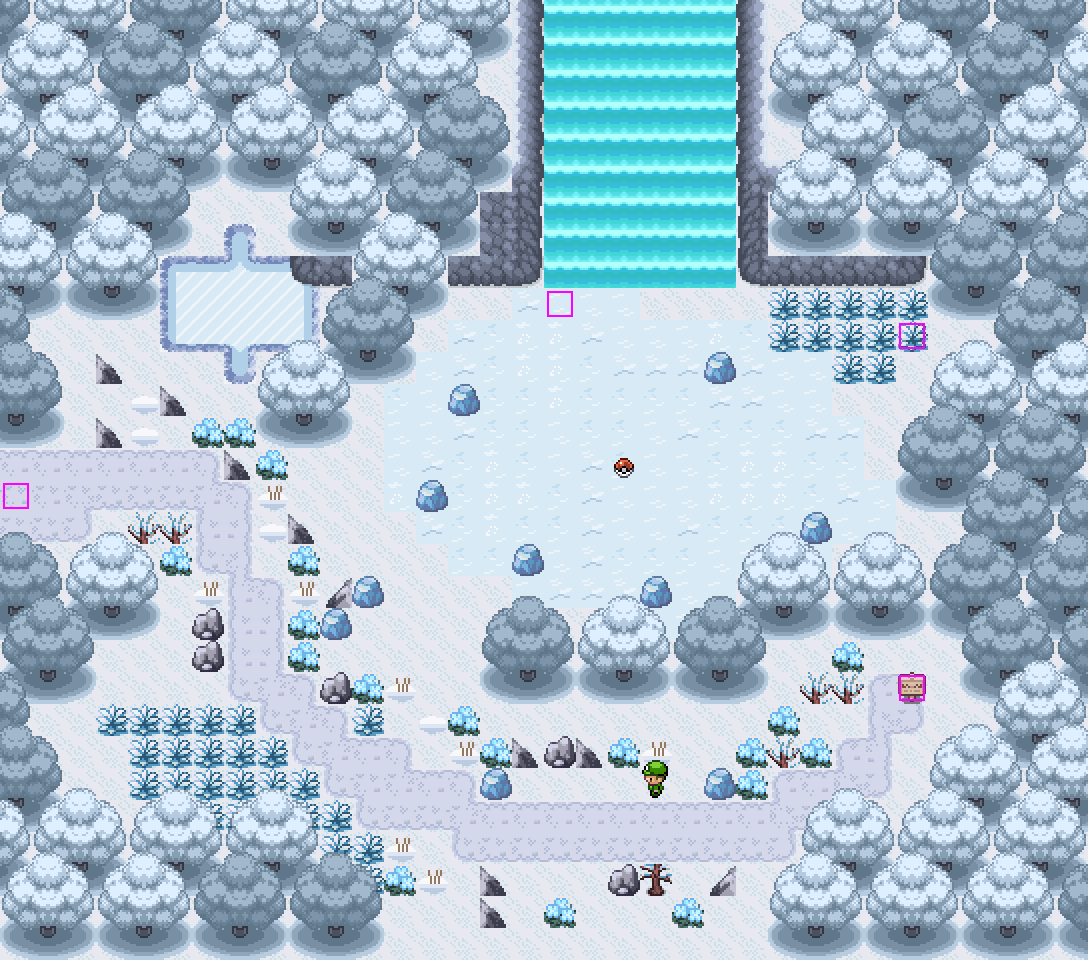
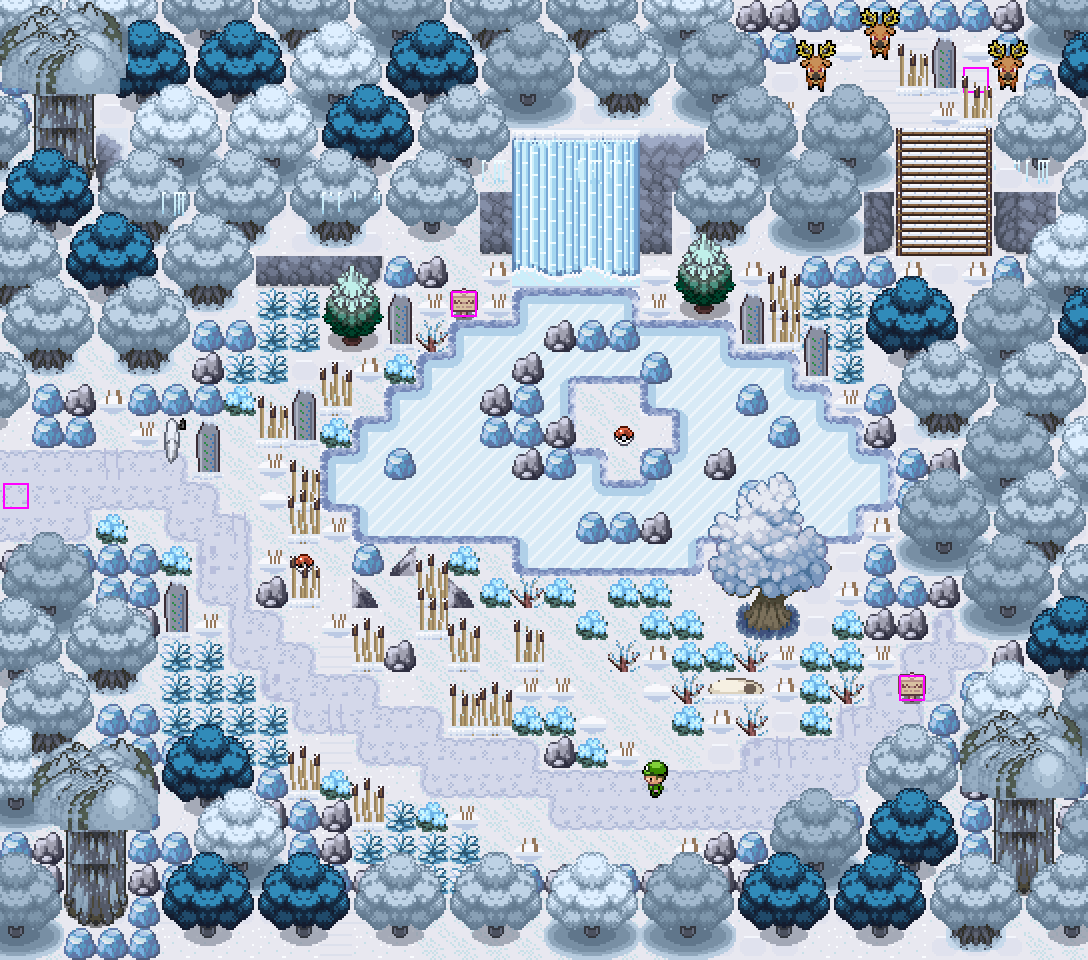
Map builder 16 job 2: The Rimewood (562) and the Glade (563) crafted
562 keeps its plan, events, connections, the D7 Frost Loom corridor and the glade / Wolfsrime warps, and gets
the old Rimewood Path's dense snowy look: SNOWWOOD lattice with blue crowns, thin forest bands opened, fringe
pines and frosted oaks, the trapper's yard, the aurora clearing's standing stones, rime silk, tracks. The Glade
is rewritten: a snow ridge with the Silk-fall frozen down its face, the herd's ground up a stair, the pond as a
proven slide puzzle (Never-Melt Ice islet in 4 slides), frosted ferns for the night Emolga table; Sigurd's
lines unchanged. Kit: CK.thin_bands, CK.infill takes tile-id bushes.

Claude-Session: https://claude.ai/code/session_01SBLHz7mq5tij8ELd9mbfG8

diff --git a/mapgen/layouts/rimewood.py b/mapgen/layouts/rimewood.py
@@ -589,13 +589,18 @@ def rimewood(prev=None):
             m.cls[y, x] = 'T'
     path = [(29, 56), (29, 50), (22, 46), (14, 44), (10, 38), (12, 30), (20, 27), (30, 26), (38, 22), (30, 22), (25, 20),
             (24.5, 13), (24, 10), (18, 8), (15, 4), (15, -1)]
-    m.lane(path, '.', 6.5, seed=3, only='T', wobble=1.6)
-    for cx, cy, rx, ry in ((26, 3, 5, 2.6), (34, 9, 5, 3.6), (10, 41, 5, 4), (40, 44, 5, 4), (20, 32, 8, 4.5), (44, 24, 4, 3),
-                           (35, 36, 6, 4), (12, 26, 4, 3), (8, 48, 5, 3.5)):
+    m.lane(path, '.', 4.6, seed=3, only='T', wobble=1.4)                  # map builder 16: a narrower verge, the wood closes in
+    for cx, cy, rx, ry in ((26, 3, 4, 2.2), (34, 9, 4.5, 3.2), (10, 41, 4.2, 3.4), (40, 44, 4, 3.2), (20, 32, 8, 4.5), (44, 24, 4, 3),
+                           (35, 36, 4.6, 3.2), (12, 26, 3.4, 2.6), (8, 48, 4, 3)):
         m.blob(cx, cy, rx, ry, '.', seed=cx + cy, only='T', rough=0.6)
     m.lane([(29, 56), (29, 50), (22, 46), (14, 44), (10, 38), (12, 30), (20, 27), (30, 26), (38, 22), (30, 22), (25, 21), (24.5, 14),
             (24, 11), (18, 8), (15, 4), (15, -1)], 'd', 2.6, seed=4, only='.T', wobble=0.4)
     m.lane([(24, 11), (30, 10), (35, 9)], 'd', 2.2, seed=6, only='.T', wobble=0.3)        # to the Frost Loom shelf
+    m.lane([(33, 36), (37, 40), (40, 43)], '.', 2.2, seed=8, only='T', wobble=0.3)         # map builder 16: to the child's big tree
+    for x in range(12, 16):                                                                 # the connection spans stay open
+        for y in range(0, 3): m.cls[y, x] = 'd' if m.cls[y, x] == 'd' else '.'
+    for x in range(26, 30):
+        for y in range(53, 56): m.cls[y, x] = 'd' if m.cls[y, x] == 'd' else '.'
     m.lane([(38, 22), (44, 24), (46, 24)], 'd', 2.0, seed=5, only='.T')       # to the frosted sapling (Cut) and the glade
     # the ravine (rows 15-18) under the fallen giant: frozen water, the trunk bridge at x 24-25
     for x in range(1, 47):
@@ -669,8 +674,25 @@ def rimewood(prev=None):
         if m.free(x, y, STAMPS[nm]['w'], STAMPS[nm]['h'], on='T.t'): m.stamp(nm, x, y)
     for cx, cy, n in ((20, 40, 2), (8, 12, 1), (40, 38, 1), (30, 46, 2), (16, 22, 2), (42, 14, 1)):
         m.trees(cx, cy, n, ['pine2', 'kf_tree'], r=3, on='.t', seed=cx + cy)
+    # ---- map builder 16: the crafted snow wood (the old Rimewood Path's look the user liked: a dense snowy lattice with
+    # blue crowns, pines and giants in front, stones, drifts and woodpiles at the foot, frozen silk in the branches)
+    import types, craftkit as CK
+    R_ = types.SimpleNamespace(m=m, seed=562, road_mask=np.isin(m.cls, ['d']), events=E, rng=random.Random(562))
+    for n, x, y in (('fw_wood', 4, 43), ('fw_wood', 6, 44), ('pf_sledge', 9, 45), ('fw_rack', 2, 44), ('fw_brazier', 11, 40),
+                    ('fw_log_m', 13, 37), ('nt_stump', 15, 41)):                  # the trapper's yard round the lodge
+        if m.free(x, y, STAMPS[n]['w'], STAMPS[n]['h'], on='.t'): m.stamp(n, x, y)
+    for n, x, y in (('nt_stonering', 24, 2), ('fw_stone', 21, 3), ('fw_stone', 30, 2), ('fw_stone', 28, 5), ('fw_stone', 20, 6)):   # the aurora clearing
+        if m.free(x, y, STAMPS[n]['w'], STAMPS[n]['h'], on='.t'): m.stamp(n, x, y)
+    for n, x, y in (('fw_skull', 38, 41), ('fw_wood', 42, 46), ('nt_stump_big', 43, 40), ('fw_peg', 36, 45)):      # the child's "big tree"
+        if m.free(x, y, STAMPS[n]['w'], STAMPS[n]['h'], on='.t'): m.stamp(n, x, y)
+    CK.thin_bands(R_)
+    CK.woods(R_, CK.SNOWWOOD, scale=9.0, accents={'snowblue': 0.05})
+    CK.fringe(R_, ['pine2', 'kf_tree', 'pine2', 'kf_tree'], 90, seed=1, near_forest=3)
+    CK.undergrowth(R_, 70, kinds=('fw_stone', 'fw_drift2', 'fw_drift0'), seed=3)
+    CK.props(R_, ['fw_stone', 'fw_wood', 'fw_log_m', 'fw_drift2', 'nt_stump'], 24, box=(0, 0, m.W, m.H), clump=3, seed=7)
     m.events = E
     m.paint()
+    CK.infill(R_, CK.SNOWWOOD, bushes=(10371, 10371, 10551), shrubs=())
     for y in range(LOG[0], LOG[1] + 1):                                      # the fallen giant: an ice-glazed log bridge
         nm = 'fw_log_n' if y == LOG[0] else 'fw_log_s' if y == LOG[1] else 'fw_log_m'
         L_ = STAMPS[nm]['layers'][1][0]
@@ -682,7 +704,9 @@ def rimewood(prev=None):
     m.L[2, 0:4, 22:30][m.L[2, 0:4, 22:30] == 0] = 0
     rime_silk(m, ((6, 8), (12, 20), (30, 30), (40, 20), (20, 44), (34, 50)))
     m.scatter(8, seed=6)
-    dress_ice(m, 0.25, seed=562); reed_beds(m, 45, seed=562); drifts(m, 0.08, seed=562)
+    dress_ice(m, 0.25, seed=562); reed_beds(m, 60, seed=562); drifts(m, 0.14, seed=562)
+    CK.snow_ground_var(R_, thr=0.45); road_tracks(m, 0.12, seed=562); icy_faces(m)
+    rime_silk(m, ((14, 6), (36, 30), (8, 22), (26, 46), (44, 36), (20, 12)))
     m.seal_against([{'dir': 'N', 'offset': 12, 'to': 561, 'to_offset': 10}, {'dir': 'S', 'offset': 26, 'to': 578, 'to_offset': 36}], spans=[('S', 26, 4)],
                    keep=[tuple(e['at']) for e in m.events if e.get('type') == 'warp'])   # map builder 9
     m.events.append({'type': 'warp', 'name': 'To the Wolfsrime', 'at': [47, 26], 'to': {'map': 579, 'x': 37, 'y': 1, 'dir': 'down'},
@@ -765,51 +789,87 @@ def ice_floor(m, cls):
 
 # =================================================================================================== 563 Rimewood Glade
 def glade(prev=None):
+    """Rimewood Glade (563; map builder 16, crafted): behind the frosted sapling on the Rimewood's east edge.  A snow
+    ridge (h1) closes the north, and the Silk-fall comes down its face frozen as it fell; at its foot the Silk-fall pond
+    is a slide puzzle (Frozen Pond, terrain tag 12: you slide until an ice block stops you) whose islet keeps the
+    Never-Melt Ice (slide_puzzle proves it takes at least four slides and that you can slide back).  The herd sleeps on
+    the ridge (a stair at the east end), the Snowveil Shrine stands in the south-east, frosted ferns fill the hollows
+    (the night table: Emolga glides here after dark, Ranger Sigurd says so)."""
+    import types, craftkit as CK
     W, H = 34, 30
     m = snowmap(W, H, 563)
     m.cls[:, :] = 'T'
-    m.blob(16.5, 16, 13.5, 12.0, '.', seed=2, only='T', rough=0.9)
-    m.lane([(0, 15), (6, 15), (8, 21), (14, 25), (24, 25), (28, 21)], 'd', 2.0, seed=3, only='.T')
+    rng = random.Random(563)
+    for x in range(W):                                                       # the ridge
+        lip = 4 + (1 if vnoise(x, 0, 5631, 4.0) > 0.66 and not 12 <= x <= 22 else 0)
+        m.ht[:lip + 1, x] = 1
+    m.blob(16.5, 16.5, 13.0, 9.5, '.', seed=2, only='T', rough=0.8)        # the glade
+    m.blob(27.5, 2.2, 4.5, 1.8, '.', seed=21, only='T', rough=0.4)          # the herd's ground on the ridge
+    m.lane([(0, 15), (5, 15), (8, 20), (13, 23), (20, 24.5), (26, 23), (29, 20)], 'd', 2.0, seed=3, only='.T', wobble=0.3)
     m.rect(0, 14, 3, 3, 'd', only='.T')
-    m.blob(19, 14, 8.0, 5.0, 'i', seed=4, only='.', rough=0.55)                # the frozen pond (slide puzzle)
-    for y in range(0, 6):                                                   # the Silk-fall pours from the ridge at x 14-19
-        for x in list(range(9, 17)) + list(range(23, 29)): m.ht[y, x] = 1
-    for y in range(0, 9):
-        for x in range(17, 23): m.cls[y, x] = 'f'
-    m.rect(2, 22, 10, 6, 't', only='.')
-    m.blob(27, 10, 3.5, 2.2, 't', seed=8, only='.', rough=0.6); m.blob(7, 9, 2.5, 2.0, 'p', seed=9, only='.T', rough=0.3)   # break the symmetry
+    for cx, cy, rx, ry, sd in ((18.5, 12.6, 6.6, 3.4, 31), (12.6, 14.6, 3.0, 2.2, 33), (24.2, 14.6, 3.0, 2.0, 35), (18.5, 16.0, 3.4, 1.6, 37)):
+        m.blob(cx, cy, rx, ry, 'p', seed=sd, rough=0.35, only='.T')         # the Silk-fall pond (a kidney, not a box)
+    smooth(m, 'p', into='.', passes=2)
+    for y in range(8, 11):                                                   # the fall's foot runs straight into the pond
+        for x in range(16, 20): m.cls[y, x] = 'p'
+    ISLET = [(18, 12), (19, 12), (18, 13), (19, 13), (20, 13), (19, 14)]
+    for x, y in ISLET: m.cls[y, x] = '.'; m.taken[y, x] = True
+    for i, (cx, cy, sz) in enumerate(((6, 22, 3.2), (27, 10, 2.4), (7, 9.5, 2.4), (12, 26.5, 2.0), (29, 26, 1.8))):
+        m.blob(cx, cy, sz, sz * 0.7, 't', seed=50 + i, only='.', rough=0.7)    # frosted ferns (the encounters, the night table)
+    for x, y in [(x, y) for y in range(H) for x in range(W) if m.cls[y, x] in '.t' and m.ht[y, x] == 0 and y <= 7]:
+        m.cls[y, x] = 'T'                                                    # nothing hangs on the ridge's face
+    m.stairs(28, 4, w=3, kit_rows=4, c='d')
+    m.plan_cliffs()
+    for x in range(28, 31):
+        for y in (2, 3, 8, 9):
+            if m.cls[y, x] in 'T.t': m.cls[y, x] = '.'
     E = [trainer((20, 24), 'POKEMONRANGER_M', 'Sigurd', "Isenmar ranger. Nobody finds this glade by accident.",
                  "...So you cut your way in. Fair. Stay till dark if you've the nerve. Something glides between the boles up here, and it crackles.", 'left'),
-         item((19, 14), 'NEVERMELTICE'), item((30, 3), 'REVIVE', True),
+         item((30, 2), 'REVIVE', True),
          sign((28, 21), 'Snowveil Shrine', "THE SNOWVEIL SHRINE\nA pot of honey and a smoked eel sit side by side on the altar.\nNeither has been touched by the other."),
-         sign((16, 9), 'Silk-fall', "THE SILK-FALL\nA waterfall of Gossamer silk, frozen as it fell. It rings faintly when the wind moves."),
+         sign((14, 9), 'Silk-fall', "THE SILK-FALL\nA waterfall of Gossamer silk, frozen as it fell. It rings faintly when the wind moves."),
+         npc((9, 17), 'Ice note', 'Object ball', ["(A trapper's note, pinned under a stone: \"Ice doesn't stop you. Blocks do. Pick your blocks.\")"]),
          {'type': 'warp', 'name': 'To the Rimewood', 'at': [0, 15], 'link': 'RIME_GLADE', 'arrive': [1, 15, 'right'], 'se': 'Door exit'}]
     m.cls[15, 0] = 'd'
-    E = seat(m, E[:-1], on='.dti') + E[-1:]
+    E = seat(m, E[:-1], on='.dt') + E[-1:] + [item((19, 13), 'NEVERMELTICE')]
     m.taken[15, 0] = True
     for e in E:
         if e['type'] == 'sign': signboard(m, e)
-    m.near('sh_gate', 27, 17, on='.d', r=2)
-    for x, y in ((25, 4), (27, 5), (29, 4)):                                # the sleeping Stantler herd (decor events)
-        if m.free(x, y, 1, 1, on='.t'): E.append({'type': 'event', 'name': 'Sleeping Stantler', 'at': [x, y], 'pages': [
-            {'graphic': {'sprite': 'Followers/STANTLER', 'dir': 'down'}, 'trigger': 'action', 'commands': ['Zzz... The Stantler sleeps in the snow.']}]})
-    m.greenfill(3, on='.')
+    for x, y in ((25, 2), (27, 1), (31, 2)):                                # the sleeping Stantler herd (decor events)
+        if m.free(x, y, 1, 1, on='.t'):
+            E.append({'type': 'event', 'name': 'Sleeping Stantler', 'at': [x, y], 'pages': [
+                {'graphic': {'sprite': 'Followers/STANTLER', 'dir': 'down'}, 'trigger': 'action', 'commands': ['Zzz... The Stantler sleeps in the snow.']}]})
+            m.taken[y, x] = True
+    R_ = types.SimpleNamespace(m=m, seed=563, road_mask=np.isin(m.cls, ['d']), events=E, rng=rng)
+    m.stamp('fw_fall', 16, 4, mark='B')                                     # the Silk-fall, frozen down the ridge's face
+    for n, x, y in (('pf_shrine', 29, 18), ('sh_gate', 24, 18), ('fw_stone', 31, 21), ('fw_brazier', 27, 18), ('fw_wood', 4, 18),
+                    ('fw_stone', 9, 12), ('fw_stone', 25, 10), ('fw_skull', 22, 21)):
+        st = STAMPS[n]
+        if m.free(x, y, st['w'], st['h'], on='.t'): m.stamp(n, x, y)
+    for nm, x, y in (('pf_g_tree2_ice', 0, 0), ('pf_g_tree2_ice', 30, 22), ('pf_g_tree2_ice', 1, 23)):
+        if m.free(x, y, STAMPS[nm]['w'], STAMPS[nm]['h'], on='T.t'): m.stamp(nm, x, y, mark='B', blend=True)
+    CK.thin_bands(R_)
+    CK.woods(R_, CK.SNOWWOOD, scale=8.0, accents={'snowblue': 0.07})
+    CK.fringe(R_, ['pine2', 'kf_tree', 'pine2'], 26, seed=1, near_forest=3)
+    CK.undergrowth(R_, 24, kinds=('fw_stone', 'fw_drift2', 'fw_drift0'), seed=3)
     m.events = E
-    m.auto['f'] = ('Waterfall (1)', 'rejuvenation'); m.AUTO_Z = dict(m.AUTO_Z, f=0); m.JOIN = dict(m.JOIN, f='f')
     m.paint()
-    ice_floor(m, 'i')
-    for x, y in ((14, 12), (22, 11), (25, 16), (16, 17), (20, 18), (13, 15)):  # stoppers on the pond
-        if m.cls[y, x] == 'i': m.L[1, y, x] = 10371
-    for y in range(0, 9):                                                   # frozen silk over the fall
-        for x in range(17, 23):
-            if (x + y) % 2 == 0: m.L[2, y, x] = STAMPS['pf_p_strand_w']['layers'][1][0][0] or m.L[2, y, x]
-    m.scatter(14, seed=12)
-    drifts(m, 0.14, seed=564)
+    CK.infill(R_, CK.SNOWWOOD, bushes=(10371, 10371, 10551), shrubs=())
+    pond = [tuple(c[::-1]) for c in np.argwhere(m.cls == 'p')]
+    for x, y in slide_puzzle(m, pond, ISLET, (19, 13), n_rocks=(10, 16), tries=3000, seed=17):   # ice-block stoppers
+        m.L[1, y, x] = 10371 if (x + y) % 3 else 10551
+    for y in range(4, 9):                                                    # frozen silk strands over the fall
+        for x in range(16, 20):
+            if (x + y) % 2 == 0 and m.L[2, y, x] == 0: m.L[2, y, x] = STAMPS['pf_p_strand_w']['layers'][1][0][0] or m.L[2, y, x]
+    rime_silk(m, ((6, 6), (12, 5), (24, 6), (5, 13), (30, 12)))
+    m.scatter(10, seed=12)
+    reed_beds(m, 18, seed=563); drifts(m, 0.14, seed=564)
+    CK.snow_ground_var(R_, thr=0.45); road_tracks(m, 0.12, seed=563); icy_faces(m)
     if prev: m.preview(prev, 0.5)
     m.write(563, head(563, 'Rimewood Glade', biome='forest', parent=562, bgm='Natural Park',
                       metadata={'Outdoor': True, 'ShowArea': True, 'MapPosition': [0, 8, 20], 'BattleBack': 'snow', 'Weather': ['Snow', 20]},
                       tone=[-6, -2, 16, 12], _file='563_rimewood_glade.yaml'),
-            '# Rimewood Glade (563). WRITTEN BY layouts/rimewood.py - edit that script.\n')
+            '# Rimewood Glade (563). WRITTEN BY layouts/rimewood.py (crafted by map builder 16) - edit that script.\n')
     return m
 
 

diff --git a/mapgen/layouts/craftkit.py b/mapgen/layouts/craftkit.py
@@ -596,7 +596,7 @@ def infill(r, palettes, pick=None, scale=10.0, seed=0, bushes=('nt_bush0', 'nt_b
                         m.taken[Y, X] = True; hole[Y, X] = False
                 done = True; placed += 1; break
             if done: continue
-            for ox in (0, -1):
+            for ox in ((0, -1) if shrubs else ()):
                 if all(m.inb(x + ox + dx, y + dy) and hole[y + dy, x + ox + dx] for dx in range(2) for dy in range(2)):
                     L = np.array(STAMPS[rng.choice(shrubs)]['layers'])
                     for dy in range(2):
@@ -607,6 +607,19 @@ def infill(r, palettes, pick=None, scale=10.0, seed=0, bushes=('nt_bush0', 'nt_b
                             m.taken[Y, X] = True; hole[Y, X] = False
                     done = True; placed += 1; break
             if done: continue
-            m.L[1, y, x] = int(np.array(STAMPS[rng.choice(bushes)]['layers']).max()); m.taken[y, x] = True; hole[y, x] = False
+            b = rng.choice(bushes)
+            m.L[1, y, x] = b if isinstance(b, int) else int(np.array(STAMPS[b]['layers']).max()); m.taken[y, x] = True; hole[y, x] = False
             placed += 1
     return placed
+
+
+def thin_bands(r, passes=2):
+    """plan time (map builder 16): forest one cell thick (a T cell with open ground on both sides, N/S or W/E) can hold
+    no lattice tree; it would be infilled as a hedge of bushes.  Open it instead (fringe trees and undergrowth dress it)"""
+    m = r.m; n = 0
+    for _ in range(passes):
+        T = m.cls == 'T'
+        pad = np.pad(T, 1, constant_values=True)
+        thin = T & ((~pad[:-2, 1:-1] & ~pad[2:, 1:-1]) | (~pad[1:-1, :-2] & ~pad[1:-1, 2:])) & ~m.taken
+        m.cls[thin] = '.'; n += int(thin.sum())
+    return n

diff --git a/design/MAPGEN.md b/design/MAPGEN.md
@@ -754,9 +754,22 @@ a PF cave sheet, see below); 546/547; 525; 562/563 (C). Before/after: `maps_out/
   (blue/violet crowns via `CK.woods(pick=)`, crystals and gravel at the crystal-silk mouth, now a true one-tile mouth),
   Shelly's dew pond with reeds and the Veil round the Masquerain's gravel pocket, the Rangers' camp (Ranger Fenn heals; the
   big stump keeps the hidden Super Potion).  Before/after: `maps_out/previews/ch2_4_compare/525_before_after.jpg`.
+- **562 The Rimewood** (`rimewood.py rimewood()`, same plan, events, connections, D7 corridor and the 47,24 / 47,26
+  warps): the verge narrowed (4.6), the clearings trimmed, a lane to the lost child's big tree; then the old Rimewood
+  Path's snowy look the user liked: `CK.woods(SNOWWOOD, snowblue accents)`, `CK.thin_bands` (one-cell forest bands open
+  to verge, not a hedge), fringe pines and frosted oaks, stones and woodpiles, `CK.infill`, the trapper's yard (wood,
+  sledge, rack, brazier), standing stones in the aurora clearing, rime silk, icicles on faces, sled tracks, snow ground
+  variants.  D7 still proves (2 pulls, 8 states); the Hoar Pond is re-searched by `slide_puzzle` (islet in 4 slides).
+- **563 Rimewood Glade** (`rimewood.py glade()`, rewritten): a snow ridge (h1) across the north with the Silk-fall as a
+  real frozen fall (`fw_fall`, silk strands over it, not the running-water autotile), the herd's sleeping ground on top
+  (stair at x 28-30), the Silk-fall pond as a **proven slide puzzle** (Frozen Pond, `slide_puzzle(n_rocks=(10, 16))`:
+  21 ice blocks, the Never-Melt Ice islet in 4 slides, a way back off), frosted-fern hollows (the Emolga night table),
+  the Snowveil Shrine.  Sigurd keeps his night-only Emolga line word for word; RIME_GLADE (0,15) unchanged.
+  Before/after: `ch2_4_compare/562_before_after.jpg`, `563_before_after.jpg`.
 - **Kit:** `CK.woods(..., pick=f)` (a palette by place); **`CK.infill(r, palettes)`** after `r.paint()`: packs every class-T
   cell the staggered lattice could not fit (ragged edges, two-row bands) with a lattice tree, a 2x2 shrub or a 1x1 bush,
-  so no forest cell is a walkable gap.  `DECOR_SH['flowers']` 11 and 12 are SOLID bushes: never use them as floor dressing.
+  so no forest cell is a walkable gap (bushes may be tile ids: snow maps use 10371 / 10551, `shrubs=()`); `CK.thin_bands(r)` at plan
+  time.  `DECOR_SH['flowers']` 11 and 12 are SOLID bushes: never use them as floor dressing.
 
 ## 2j. Puzzle interiors: tileset 54, the puzzle runtime and the solver (puzzle engineer)
 - **Tileset 54 "PF Rejuv Halls"** (`compose_halls.py`; offsets in `data/halls.json`): only the sheet rows that Rejuvenation's

diff --git a/design/DUNGEON_PUZZLES.md b/design/DUNGEON_PUZZLES.md
@@ -243,6 +243,9 @@ Gull cries count down the last 3 steps, and a tide-mark rock changes colour.
   - **Verified (BFS): 9 slides,** `U R U L D R D L U`.
   - The Ranger (20,24) gives the hint: "Ice doesn't stop you. Rocks do. Pick your rocks."
   - **Reward:** Never-Melt Ice + Revive (hidden).
+  - **As built (map builder 16, 2026-11-21):** the pond under the frozen Silk-fall is laid by `rimewood.slide_puzzle` (not the
+    13x9 sketch above): 21 ice blocks, the islet with the Never-Melt Ice in 4 slides, and a slide back off; Sigurd's
+    lines are unchanged and the trapper's note by the shore gives the hint ("Ice doesn't stop you. Blocks do.").
 
 ## D8 The Rehearsal (568, 34×26, `:BLEED`, bonus) — "between the frames"
 **Rule:** five seconds replay forever. Here a "second" is your step: the wagon crash advances one frame per step
